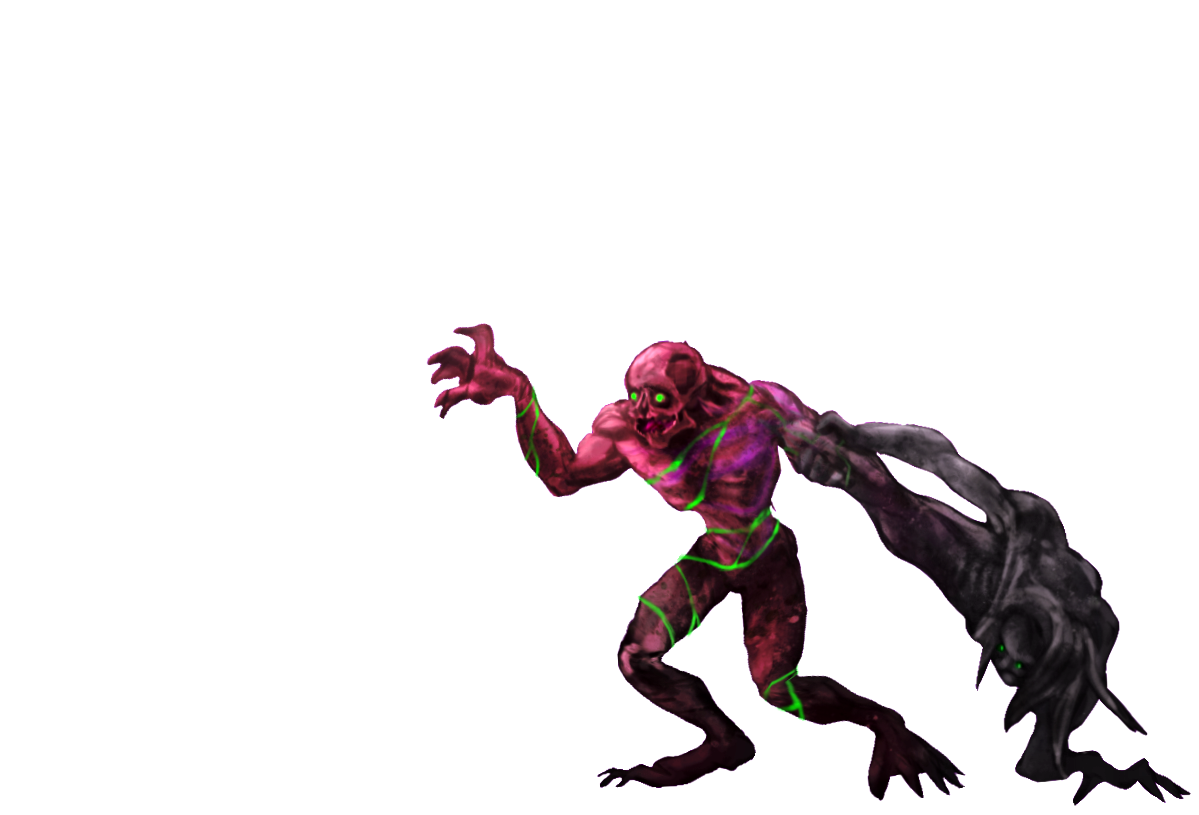
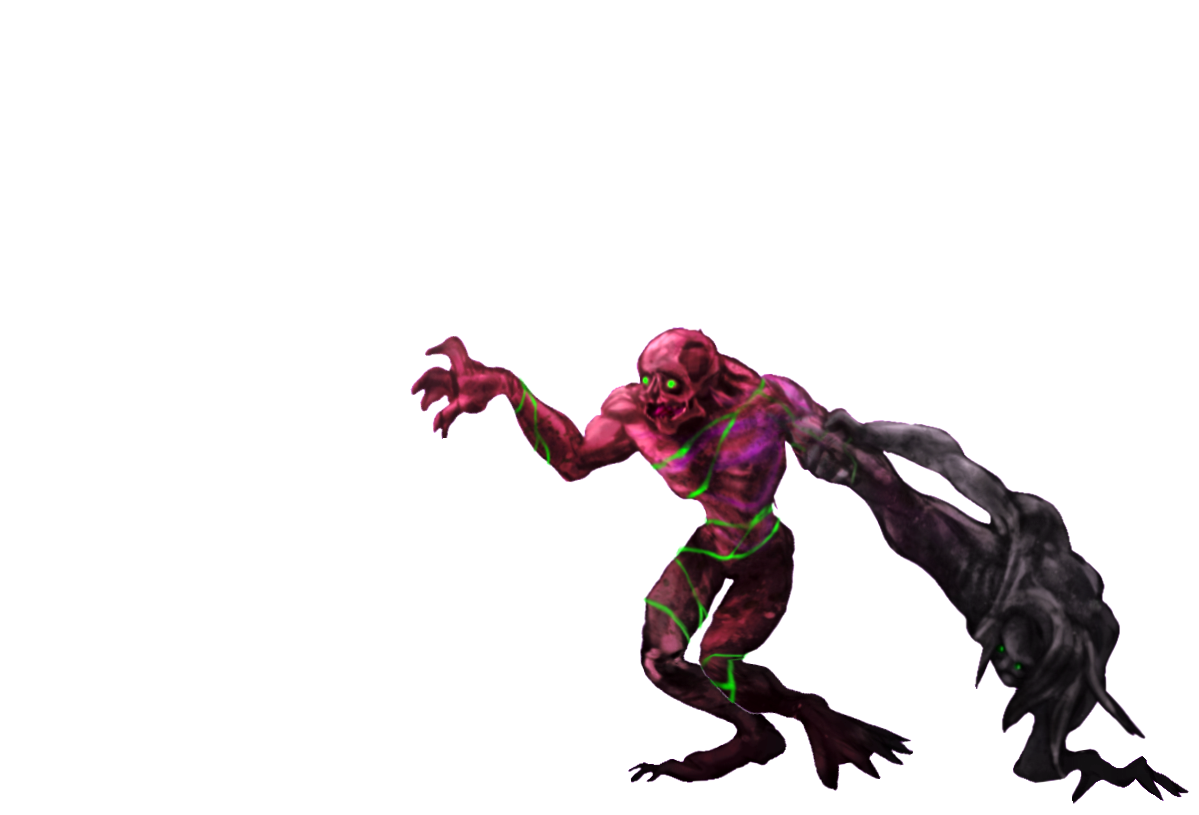
update symbiont walk cycle and special attack animation

diff --git a/src/Symbiont.py b/src/Symbiont.py
@@ -7,9 +7,6 @@ from Player import *
 
 class Symbiont(Player):
 
-    #moveLeftImage = ChibiUsa_resources.Left
-    #moveRightImage = ChibiUsa_resources.Right
-
     idleAnimationLeft = pyglet.image.Animation.from_image_sequence\
     ([Symbiont_resources.Left1, Symbiont_resources.Left2], 0.5, True)
 
@@ -17,10 +14,10 @@ class Symbiont(Player):
     ([Symbiont_resources.Right1, Symbiont_resources.Right2], 0.5, True)
 
     walkAnimationLeft = pyglet.image.Animation.from_image_sequence\
-    ([Symbiont_resources.WalkLeft1, Symbiont_resources.WalkLeft2, Symbiont_resources.WalkLeft3], 0.3, True)
+    ([Symbiont_resources.WalkLeft1, Symbiont_resources.WalkLeft2, Symbiont_resources.WalkLeft3, Symbiont_resources.WalkLeft2], 0.3, True)
 
     walkAnimationRight = pyglet.image.Animation.from_image_sequence\
-    ([Symbiont_resources.WalkRight1, Symbiont_resources.WalkRight2, Symbiont_resources.WalkRight3], 0.3, True)
+    ([Symbiont_resources.WalkRight1, Symbiont_resources.WalkRight2, Symbiont_resources.WalkRight3, Symbiont_resources.WalkRight2], 0.3, True)
 
 
     punchLeft = Symbiont_resources.PunchLeft
@@ -62,16 +59,24 @@ class Symbiont(Player):
     ([Symbiont_resources.Left1, Symbiont_resources.Right1], 0.5, True)
 
     specialAnimationRight = pyglet.image.Animation.from_image_sequence\
-    ([Symbiont_resources.SpezialLeft1, Symbiont_resources.SpezialLeft2], 0.2, True)
+    ([Symbiont_resources.SpezialLeft1, Symbiont_resources.SpezialLeft2, Symbiont_resources.SpezialLeft3,
+      Symbiont_resources.SpezialLeft4, Symbiont_resources.SpezialLeft5, Symbiont_resources.SpezialLeft6,
+      Symbiont_resources.SpezialLeft7], 0.1, False)
 
     specialAnimationLeft = pyglet.image.Animation.from_image_sequence\
-    ([Symbiont_resources.SpezialRight1, Symbiont_resources.SpezialRight2], 0.2, True)
+    ([Symbiont_resources.SpezialRight1, Symbiont_resources.SpezialRight2, Symbiont_resources.SpezialRight3,
+      Symbiont_resources.SpezialRight4, Symbiont_resources.SpezialRight5,Symbiont_resources.SpezialRight6,
+      Symbiont_resources.SpezialRight7], 0.1, False)
 
     specialAnimationRightMask = pyglet.image.Animation.from_image_sequence\
-    ([Symbiont_resources.SpezialLeft1, Symbiont_resources.SpezialLeftMask2], 0.2, True)
+    ([Symbiont_resources.SpezialRight1, Symbiont_resources.SpezialRight2, Symbiont_resources.SpezialRightMask3,
+      Symbiont_resources.SpezialRightMask4, Symbiont_resources.SpezialRightMask5,Symbiont_resources.SpezialRightMask6,
+      Symbiont_resources.SpezialRight7], 0.1, False)
 
     specialAnimationLeftMask = pyglet.image.Animation.from_image_sequence\
-    ([Symbiont_resources.SpezialRight1, Symbiont_resources.SpezialRightMask2], 0.2, True)
+    ([Symbiont_resources.SpezialLeft1, Symbiont_resources.SpezialLeft2, Symbiont_resources.SpezialLeftMask3,
+      Symbiont_resources.SpezialLeftMask4, Symbiont_resources.SpezialLeftMask5,Symbiont_resources.SpezialLeftMask6,
+      Symbiont_resources.SpezialLeft7], 0.1, False)
 
     jumpSound = Symbiont_resources.JumpSound
     punchSound = Symbiont_resources.PunchSound

diff --git a/src/Viking.py b/src/Viking.py
@@ -7,9 +7,6 @@ from Player import *
 
 class Viking(Player):
 
-    #moveLeftImage = ChibiUsa_resources.Left
-    #moveRightImage = ChibiUsa_resources.Right
-
     idleAnimationLeft = pyglet.image.Animation.from_image_sequence\
     ([Viking_resources.Left1, Viking_resources.Left2, Viking_resources.Left3, Viking_resources.Left4], 0.5, True)
 
@@ -63,19 +60,19 @@ class Viking(Player):
 
     specialAnimationLeft = pyglet.image.Animation.from_image_sequence\
     ([Viking_resources.SpezialLeft1, Viking_resources.SpezialLeft2, Viking_resources.SpezialLeft3,
-      Viking_resources.SpezialLeft4, Viking_resources.SpezialLeft5, Viking_resources.SpezialLeft6], 0.1, True)
+      Viking_resources.SpezialLeft4, Viking_resources.SpezialLeft5, Viking_resources.SpezialLeft6], 0.1, False)
 
     specialAnimationRight = pyglet.image.Animation.from_image_sequence\
     ([Viking_resources.SpezialRight1, Viking_resources.SpezialRight2, Viking_resources.SpezialRight3,
-      Viking_resources.SpezialRight4, Viking_resources.SpezialRight5, Viking_resources.SpezialRight6], 0.1, True)
+      Viking_resources.SpezialRight4, Viking_resources.SpezialRight5, Viking_resources.SpezialRight6], 0.1, False)
 
     specialAnimationLeftMask = pyglet.image.Animation.from_image_sequence\
-    ([Viking_resources.SpezialLeft1, Viking_resources.SpezialLeftMask1, Viking_resources.SpezialLeftMask2,
-      Viking_resources.SpezialLeftMask3, Viking_resources.SpezialLeftMask4, Viking_resources.SpezialLeftMask4], 0.1, True)
+    ([Viking_resources.SpezialLeft1, Viking_resources.SpezialLeftMask2, Viking_resources.SpezialLeftMask3,
+      Viking_resources.SpezialLeftMask4, Viking_resources.SpezialLeftMask5, Viking_resources.SpezialLeft6], 0.1, False)
 
     specialAnimationRightMask = pyglet.image.Animation.from_image_sequence\
-    ([Viking_resources.SpezialRight1, Viking_resources.SpezialRightMask1, Viking_resources.SpezialRightMask2,
-      Viking_resources.SpezialRightMask3, Viking_resources.SpezialRightMask4, Viking_resources.SpezialRightMask4], 0.1, True)
+    ([Viking_resources.SpezialRight1, Viking_resources.SpezialRightMask2, Viking_resources.SpezialRightMask3,
+      Viking_resources.SpezialRightMask4, Viking_resources.SpezialRightMask5, Viking_resources.SpezialRight6], 0.1, False)
 
     jumpSound = Viking_resources.JumpSound
     punchSound = Viking_resources.PunchSound

diff --git a/src/Symbiont_resources.py b/src/Symbiont_resources.py
@@ -54,12 +54,28 @@ LowKickRightMask = pyglet.resource.image("Symbiont_lowkick_right_mask.png")
 
 SpezialLeft1 = pyglet.resource.image("Symbiont_special_left_1.png")
 SpezialLeft2 = pyglet.resource.image("Symbiont_special_left_2.png")
+SpezialLeft3 = pyglet.resource.image("Symbiont_special_left_3.png")
+SpezialLeft4 = pyglet.resource.image("Symbiont_special_left_4.png")
+SpezialLeft5 = pyglet.resource.image("Symbiont_special_left_5.png")
+SpezialLeft6 = pyglet.resource.image("Symbiont_special_left_6.png")
+SpezialLeft7 = pyglet.resource.image("Symbiont_special_left_7.png")
 
 SpezialRight1 = pyglet.resource.image("Symbiont_special_right_1.png")
 SpezialRight2 = pyglet.resource.image("Symbiont_special_right_2.png")
+SpezialRight3 = pyglet.resource.image("Symbiont_special_right_3.png")
+SpezialRight4 = pyglet.resource.image("Symbiont_special_right_4.png")
+SpezialRight5 = pyglet.resource.image("Symbiont_special_right_5.png")
+SpezialRight6 = pyglet.resource.image("Symbiont_special_right_6.png")
+SpezialRight7 = pyglet.resource.image("Symbiont_special_right_7.png")
 
-SpezialLeftMask2 = pyglet.resource.image("Symbiont_special_left_3_mask.png")
-SpezialRightMask2 = pyglet.resource.image("Symbiont_special_right_3_mask.png")
+SpezialLeftMask3 = pyglet.resource.image("Symbiont_special_left_3_mask.png")
+SpezialLeftMask4 = pyglet.resource.image("Symbiont_special_left_4_mask.png")
+SpezialLeftMask5 = pyglet.resource.image("Symbiont_special_left_5_mask.png")
+SpezialLeftMask6 = pyglet.resource.image("Symbiont_special_left_6_mask.png")
+SpezialRightMask3 = pyglet.resource.image("Symbiont_special_right_3_mask.png")
+SpezialRightMask4 = pyglet.resource.image("Symbiont_special_right_4_mask.png")
+SpezialRightMask5 = pyglet.resource.image("Symbiont_special_right_5_mask.png")
+SpezialRightMask6 = pyglet.resource.image("Symbiont_special_right_6_mask.png")
 
 JumpSound = pyglet.resource.media('jumping.wav', streaming=False)
 PunchSound = pyglet.resource.media('symbiont_punch.wav', streaming=False)

diff --git a/src/Viking_resources.py b/src/Viking_resources.py
@@ -72,15 +72,15 @@ SpezialRight4 = pyglet.resource.image("Viking_special_right_4.png")
 SpezialRight5 = pyglet.resource.image("Viking_special_right_5.png")
 SpezialRight6 = pyglet.resource.image("Viking_special_right_6.png")
 
-SpezialLeftMask1 = pyglet.resource.image("Viking_special_left_2_mask.png")
-SpezialLeftMask2 = pyglet.resource.image("Viking_special_left_3_mask.png")
-SpezialLeftMask3 = pyglet.resource.image("Viking_special_left_4_mask.png")
-SpezialLeftMask4 = pyglet.resource.image("Viking_special_left_5_mask.png")
+SpezialLeftMask2 = pyglet.resource.image("Viking_special_left_2_mask.png")
+SpezialLeftMask3 = pyglet.resource.image("Viking_special_left_3_mask.png")
+SpezialLeftMask4 = pyglet.resource.image("Viking_special_left_4_mask.png")
+SpezialLeftMask5 = pyglet.resource.image("Viking_special_left_5_mask.png")
 
-SpezialRightMask1 = pyglet.resource.image("Viking_special_right_2_mask.png")
-SpezialRightMask2 = pyglet.resource.image("Viking_special_right_3_mask.png")
-SpezialRightMask3 = pyglet.resource.image("Viking_special_right_4_mask.png")
-SpezialRightMask4 = pyglet.resource.image("Viking_special_right_5_mask.png")
+SpezialRightMask2 = pyglet.resource.image("Viking_special_right_2_mask.png")
+SpezialRightMask3 = pyglet.resource.image("Viking_special_right_3_mask.png")
+SpezialRightMask4 = pyglet.resource.image("Viking_special_right_4_mask.png")
+SpezialRightMask5 = pyglet.resource.image("Viking_special_right_5_mask.png")
 
 JumpSound = pyglet.resource.media('jumping.wav', streaming=False)
 PunchSound = pyglet.resource.media('viking_punch.wav', streaming=False)
